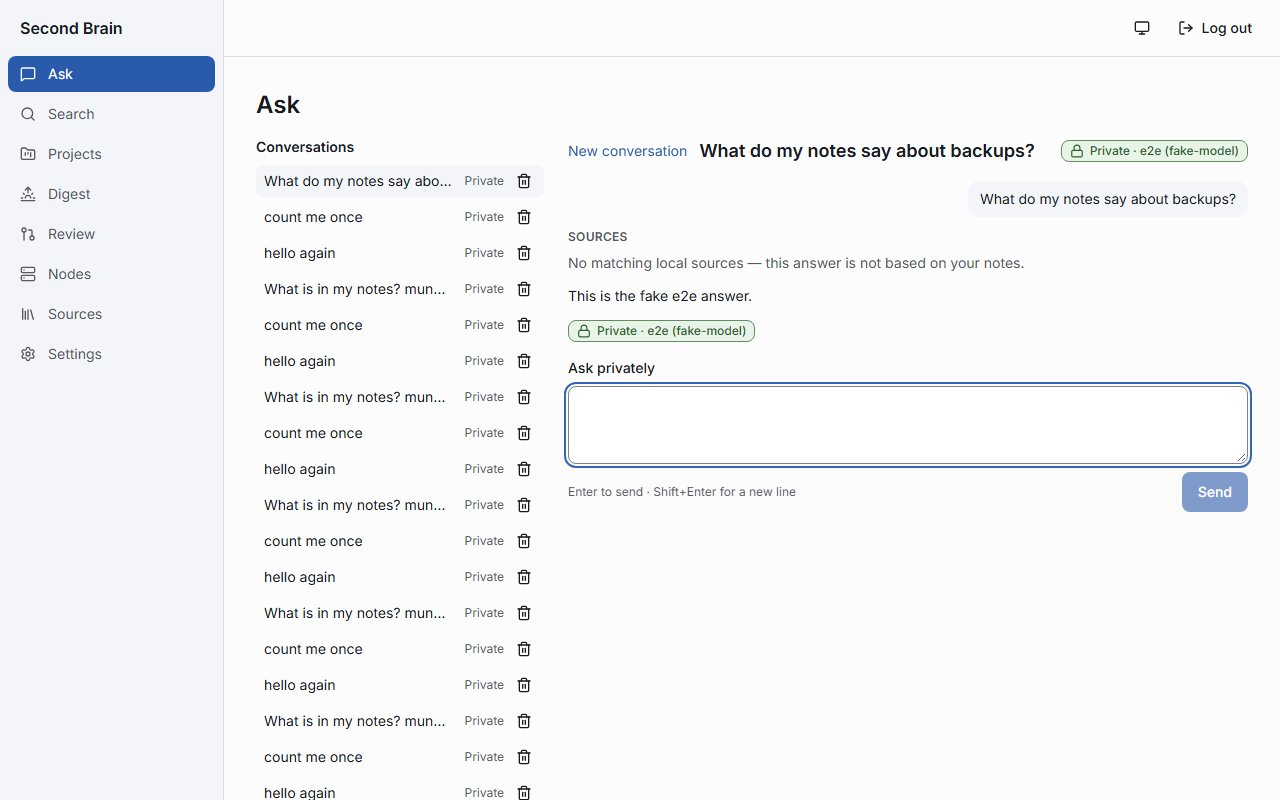
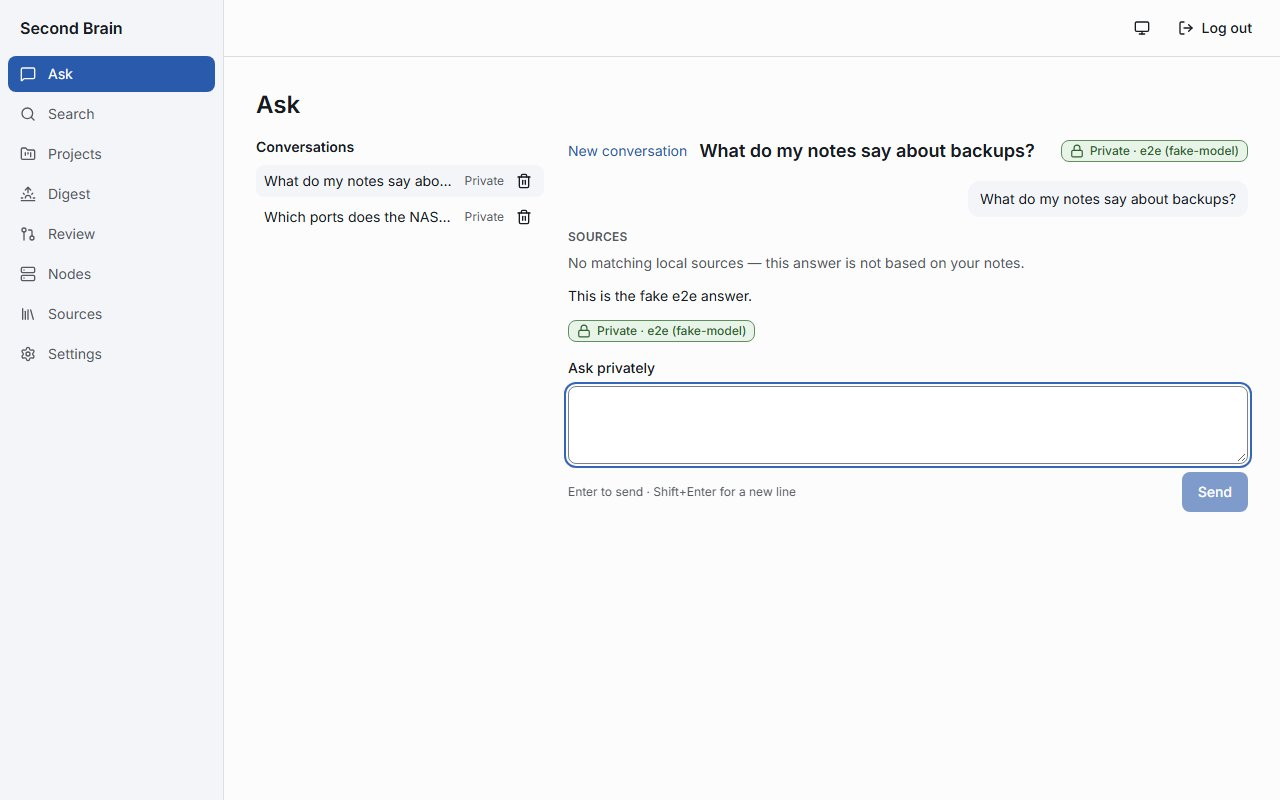
docs: refresh Ask screenshot

diff --git a/web/tests/e2e/readme-screenshots.spec.ts b/web/tests/e2e/readme-screenshots.spec.ts
@@ -1,14 +1,32 @@
 import { expect, test } from "@playwright/test";
 
+// Runs through the e2e servers (the `just e2e` harness), so answers come from the fake Ollama.
 test.skip(!process.env.README_SHOTS, "Set README_SHOTS=1 to refresh README screenshots");
 
-test("ask screen", async ({ page }) => {
+test("ask screen", async ({ page, baseURL }) => {
   await page.setViewportSize({ width: 1280, height: 800 });
   await page.goto("/ask");
   await page.getByLabel("Password").fill("e2e-test-password");
   await page.getByRole("button", { name: "Sign in" }).click();
+  await expect(page.getByLabel("Ask privately")).toBeVisible();
+
+  // Start from an empty sidebar: delete leftovers from earlier e2e runs.
+  const origin = new URL(baseURL ?? "http://localhost:5174").origin;
+  const list = await page.request.get("/api/sessions");
+  for (const s of (await list.json()) as { id: string }[]) {
+    const res = await page.request.delete(`/api/sessions/${s.id}`, { headers: { Origin: origin } });
+    expect(res.ok()).toBeTruthy();
+  }
+  await page.reload();
+
+  await page.getByLabel("Ask privately").fill("Which ports does the NAS expose?");
+  await page.getByRole("button", { name: "Send" }).click();
+  await expect(page.getByText("This is the fake e2e answer.")).toBeVisible();
+
+  await page.getByRole("link", { name: "New conversation" }).click();
   await page.getByLabel("Ask privately").fill("What do my notes say about backups?");
   await page.getByRole("button", { name: "Send" }).click();
+  await expect(page.getByText("This is the fake e2e answer.")).toHaveCount(1);
   await expect(page.getByText("This is the fake e2e answer.")).toBeVisible();
   await page.screenshot({ path: "../docs/images/readme/ask.jpg", type: "jpeg", quality: 85 });
 });
